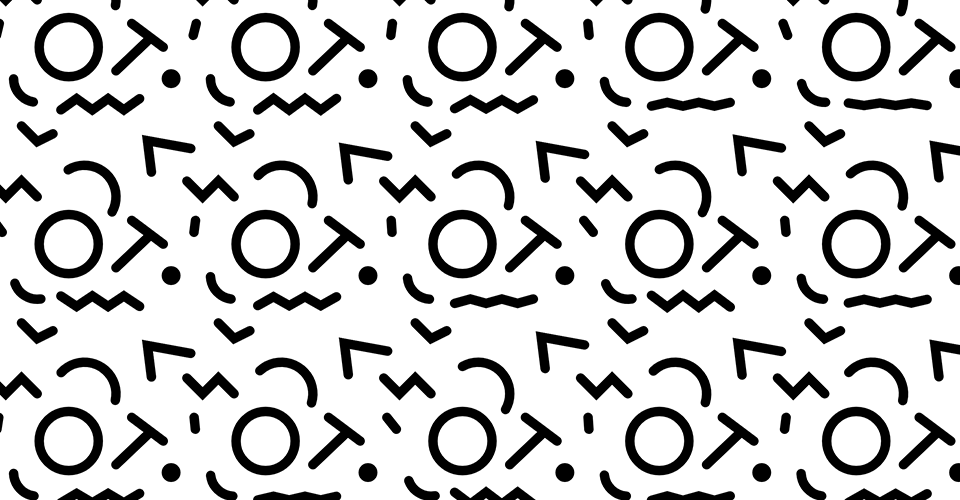
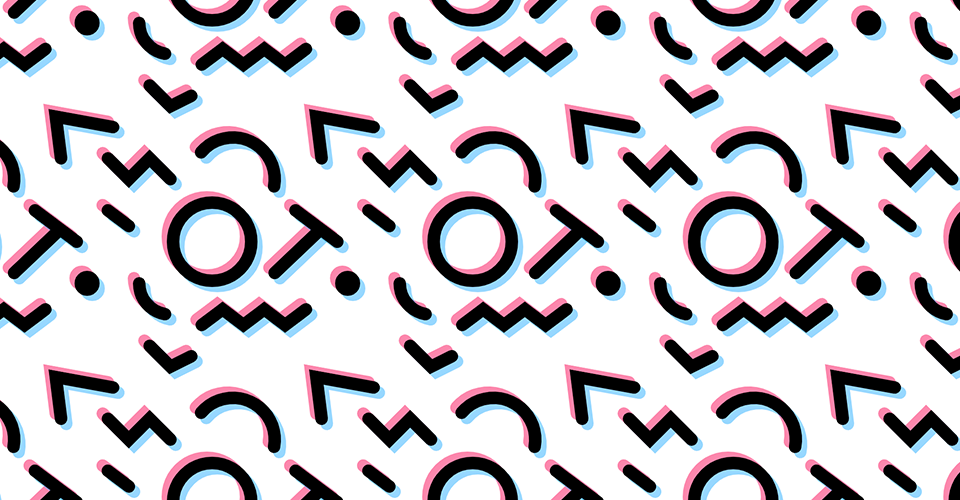
grid finished

diff --git a/drawgrid.js b/drawgrid.js
@@ -5,28 +5,22 @@
  * p5: the p5.js object - all draw commands should be prefixed with this object
  * x1, x2, y1, y2: draw the pattern contained in the rectangle x1,y1 to x2, y2
  * z: use this as the noise z offset (can be shifted)
+ * zoom: current zoom level (starts at 0), useful to decide how much detail to draw
  *
  * The destination drawing should be in the square 0, 0, 255, 255.
  */
-//zoom: current zoom level (starts at 0), useful to decide how much detail to draw
 const max_thickness = 200;
 const grid_size = 250;
+
 const line_width = 12;
-
-const sm_grid_size = 5;
-const sm_max_thickness = 100;
-
-let do_animation = true;
 
 /* the random number seed for the tour */
 var tourSeed = 301;
 /* triplets of locations: zoom, x, y */
 var tourPath = [
-  [1, 512, 512],
-  [2, 535, 539],
-  [3, 430, 535],
-  [3, 404, 625],
-  [4, 435, 437]
+  [2, 512, 512],
+  [2, 420, 400],
+  [4, 420, 400]
 ]
 
 /* this function takes a coordinate and aligns to a grid of size gsize */
@@ -34,26 +28,19 @@ function snap_to_grid(num, gsize) {
   return (num - (num % gsize));
 }
 
-function myPattern(p5, x, y, x1, x2, y1, y2, z)  {
-
-  let phase = x * y;
-  let sineWave = p5.sin(phase + p5.globalFrameCount*3);
-
-  let arc_move = p5.map(sineWave, -1, 1, 0, 20);
+function myPattern(p5, x, y, x1, x2, y1, y2)  {
   let arc_x = p5.map(x+20, x1, x2, 0, 256);
   let arc_y = p5.map(y-60, y1, y2, 0, 256);
   let arc_w_offset = p5.map(x+100, x1, x2, 0, 256);
   let arc_w = arc_w_offset - arc_x;
-  p5.arc(arc_x, arc_y, arc_w, arc_w, 220+arc_move, 10+arc_move); //big
+  p5.arc(arc_x, arc_y, arc_w, arc_w, 220, 10); //big
 
-  let sm_arc_move = p5.map(sineWave, -1, 1, 0, 20);
   let sm_arc_x = p5.map(x-40, x1, x2, 0, 256);
   let sm_arc_y = p5.map(y+40, y1, y2, 0, 256);
   let sm_arc_w_offset = p5.map(x+20, x1, x2, 0, 256);
   let sm_arc_w = sm_arc_w_offset - sm_arc_x;
-  p5.arc(sm_arc_x, sm_arc_y, sm_arc_w, sm_arc_w, 100-sm_arc_move, 180-sm_arc_move); //small
+  p5.arc(sm_arc_x, sm_arc_y, sm_arc_w, sm_arc_w, 100, 180); //small
 
-  let zzz_position = p5.map(sineWave, -1, 1, 0, 15);
   let zzz_x = p5.map(x-10, x1, x2, 0, 256);
   let zzz_x1 = p5.map(x+10, x1, x2, 0, 256);
   let zzz_x2 = p5.map(x+30, x1, x2, 0, 256);
@@ -63,12 +50,12 @@ function myPattern(p5, x, y, x1, x2, y1, y2, z)  {
   let zzz_y = p5.map(y+80, y1, y2, 0, 256);
   let zzz_y1 = p5.map(y+65, y1, y2, 0, 256);
   p5.beginShape(); //long zigzag
-    p5.vertex(zzz_x, zzz_y-zzz_position);
-    p5.vertex(zzz_x1, zzz_y1+zzz_position);
-    p5.vertex(zzz_x2, zzz_y-zzz_position);
-    p5.vertex(zzz_x3, zzz_y1+zzz_position);
-    p5.vertex(zzz_x4, zzz_y-zzz_position);
-    p5.vertex(zzz_x5, zzz_y1+zzz_position);
+    p5.vertex(zzz_x, zzz_y);
+    p5.vertex(zzz_x1, zzz_y1);
+    p5.vertex(zzz_x2, zzz_y);
+    p5.vertex(zzz_x3, zzz_y1);
+    p5.vertex(zzz_x4, zzz_y);
+    p5.vertex(zzz_x5, zzz_y1);
   p5.endShape();
 
   let zz_x = p5.map(x-100, x1, x2, 0, 256);
@@ -84,15 +71,12 @@ function myPattern(p5, x, y, x1, x2, y1, y2, z)  {
     p5.vertex(zz_x3, zz_y1);
   p5.endShape();
 
-  let line_move = p5.map(sineWave, -1, 1, 12, 4);
-  let line_move_y = p5.map(sineWave, -1, 1, 0, 0.01);
   let line_x = p5.map(x-100, x1, x2, 0, 256);
   let line_x1 = p5.map(x-80, x1, x2, 0, 256);
   let line_y = p5.map(y-30, y1, y2, 0, 256);
   let line_y1 = p5.map(y-15, y1, y2, 0, 256);
-  p5.line(line_x+line_move, line_y+line_move_y, line_x1-line_move, line_y1+line_move_y);
+  p5.line(line_x, line_y, line_x1, line_y1);
 
-  let v_move = p5.map(sineWave, -1, 1, 0, 12);
   let topV_x = p5.map(x+105, x1, x2, 0, 256);
   let topV_x1 = p5.map(x+100, x1, x2, 0, 256);
   let topV_x2 = p5.map(x+155, x1, x2, 0, 256);
@@ -100,9 +84,9 @@ function myPattern(p5, x, y, x1, x2, y1, y2, z)  {
   let topV_y1 = p5.map(y-120, y1, y2, 0, 256);
   let topV_y2 = p5.map(y-110, y1, y2, 0, 256);
   p5.beginShape(); //top V
-    p5.vertex(topV_x, topV_y-v_move);
-    p5.vertex(topV_x1, topV_y1-v_move);
-    p5.vertex(topV_x2, topV_y2-v_move);
+    p5.vertex(topV_x, topV_y);
+    p5.vertex(topV_x1, topV_y1);
+    p5.vertex(topV_x2, topV_y2);
   p5.endShape();
 
   let bottomV_x = p5.map(x-60, x1, x2, 0, 256);
@@ -156,35 +140,8 @@ function drawGrid(p5, x1, x2, y1, y2, z, zoom) {
   p5.noFill();
   p5.strokeWeight(cur_line_width);
 
-  let sm_max_shift = sm_max_thickness;
-  let sm_min_x = snap_to_grid(x1 - sm_max_shift, sm_grid_size);
-  let sm_max_x = snap_to_grid(x2 + sm_max_shift + sm_grid_size, sm_grid_size);
-  let sm_min_y = snap_to_grid(y1 - sm_max_shift, sm_grid_size);
-  let sm_max_y = snap_to_grid(y2 + sm_max_shift + sm_grid_size, sm_grid_size);
-
-  for(let x=sm_min_x; x<sm_max_x; x+=sm_grid_size) {
-    for(let y=sm_min_y; y<sm_max_y; y+=sm_grid_size) {
-      if (zoom >= 4) {
-        let mini_circle_x = p5.map(x, x1, x2, 0, 256);
-        let mini_circle_y = p5.map(y, y1, y2, 0, 256);
-        let mini_circle_origin_x = p5.map(0, x1, x2, 0, 256);
-        let mini_circle_offset = p5.map(2, x1, x2, 0, 256);
-        let mini_circle_radius = mini_circle_offset - mini_circle_origin_x;
-        p5.push();
-        p5.noStroke();
-        p5.fill(0);
-        p5.ellipse(mini_circle_x, mini_circle_y, mini_circle_radius, mini_circle_radius);
-        p5.pop();
-        p5.push();
-        p5.noStroke();
-        p5.fill(255);
-        p5.ellipse(mini_circle_x+6, mini_circle_y-6, mini_circle_radius, mini_circle_radius);
-        p5.pop();
-      }
-    }
-  }
-
   let max_shift = max_thickness;
+  /* this rectangle defines the region that will be drawn and includes a margin */
   let min_x = snap_to_grid(x1 - max_shift, grid_size);
   let max_x = snap_to_grid(x2 + max_shift + grid_size, grid_size);
   let min_y = snap_to_grid(y1 - max_shift, grid_size);
@@ -192,30 +149,18 @@ function drawGrid(p5, x1, x2, y1, y2, z, zoom) {
 
   for(let x=min_x; x<max_x; x+=grid_size) {
     for(let y=min_y; y<max_y; y+=grid_size) {
-      if (zoom >= 1) {
-        p5.stroke(255, 224, 231);
-        myPattern(p5, x, y, x1, x2, y1, y2, z);
-        p5.stroke(232, 246, 255);
-        myPattern(p5, x+10, y+10, x1, x2, y1, y2, z);
-      }
-      if (zoom >= 2) {
-        p5.stroke(255, 181, 198);
-        myPattern(p5, x, y, x1, x2, y1, y2, z);
-        p5.stroke(193, 231, 255);
-        myPattern(p5, x+10, y+10, x1, x2, y1, y2, z);
-      }
-      if (zoom >= 3) {
-        p5.stroke(255, 107, 141);
-        myPattern(p5, x, y, x1, x2, y1, y2, z);
-        p5.stroke(122, 204, 255);
-        myPattern(p5, x+10, y+10, x1, x2, y1, y2, z);
-      }
+
+      p5.stroke(249, 2, 80, 120);
+      myPattern(p5, x, y, x1, x2, y1, y2);
+      p5.stroke(35, 170, 255, 120);
+      myPattern(p5, x+10, y+10, x1, x2, y1, y2);
       p5.stroke(0);
-      myPattern(p5, x+5, y+5, x1, x2, y1, y2, z);
+      myPattern(p5, x+5, y+5, x1, x2, y1, y2);
+
     }
   }
 
-  // //debug - show border
+  //debug - show border
   // p5.noFill();
   // p5.stroke(255, 0, 0);
   // p5.strokeWeight(1);

diff --git a/README.md b/README.md
@@ -1,11 +1,3 @@
 ## PS4 MDDN 342 2018
 
-I originally wanted to have the two 'layers' of this map both be the same pattern. My first sketch took this idea with starting zoomed in on a pink pattern, and zooming out to reveal another version of it.
-
-I began by just putting my existing pattern into the framework. This worked quite easily, and I could quickly add all the elements of my pattern. 
-
-I then experimented with different colours when zooming in, and decided on the original colours from my first sketch - just having them increase in opacity as you zoom. At this point, I also decided to stick with the zooming in, rather than zooming out like I had originally planned. This was just easier as working through the code natrually made me think of way to manipulate the pattern while zooming in rather than out. 
-
-Moving on to animation, I wanted to keep with a similar sort of motion from ps3, but making things a bit more random to break up the grid a bit. Other than making things move offset to one another, I also decided to have some elements still. This just made the grid less obvious than having everything move together. 
-
-Finally, I added in an extra layer beyond the colours changing. After realising my original plan would be difficult to implement, I still wanted to have some kind of extra pattern appear. To do so, I simply added in a grid of shadowed dots. I thought this was a nice way to add in some extra texture that still stuck with the style of the first pattern.
+I got my pattern repeating accross the whole grid, and am now experimenting with colours.
